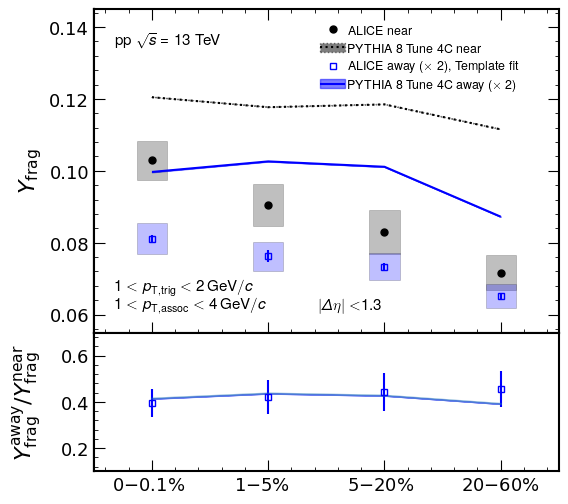
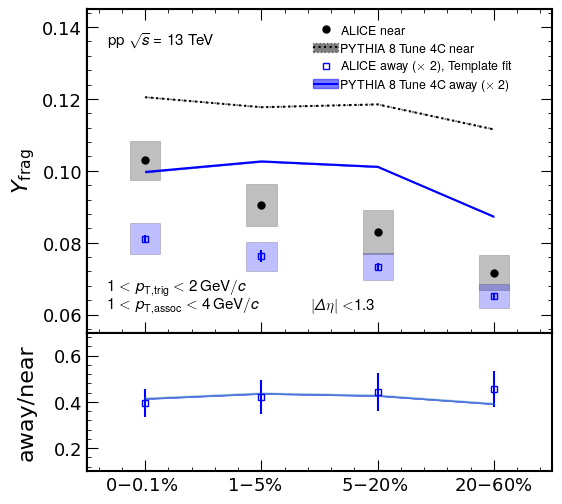
y label change

diff --git a/Fig5_JetY_mult.py b/Fig5_JetY_mult.py
@@ -47,7 +47,7 @@ centrality =["ALICE near","PYTHIA 8 Tune 4C near",
 
 #xtitle = ["$p_\\mathrm{T,trig(assoc)} (\\mathrm{GeV}/c)$"];
 xtitle = ["",""];
-ytitle = ["$Y_\\mathrm{frag}$"," $2Y_\\mathrm{frag}^\\mathrm{away}/Y_\\mathrm{frag}^\\mathrm{near}$"];
+ytitle = ["$Y_\\mathrm{frag}$"," away/near$"];
 
 
 # Following two must be added
@@ -62,9 +62,10 @@ plot = JPyPlotRatio.JPyPlotRatio(panels=(nrow,ncol),
 	colBounds=xlimits,  # for ncol
 	panelLabel=plables,  # nrowxncol
 	ratioBounds=rlimits,# for nrow
+#	ratioSystPlot=True,
 	panelLabelLoc=(0.85,0.85),panelLabelSize=16,panelLabelAlign="left",
 	legendPanel={0:0},
-	legendLoc={0:(0.7,0.85)},legendSize=9,xlabel={0:xtitle[0]},ylabel={0:ytitle[0]},ylabelRatio="$Y_\\mathrm{frag}^\\mathrm{away}/Y_\\mathrm{frag}^\\mathrm{near}$",fontsize=1);
+	legendLoc={0:(0.7,0.85)},legendSize=9,xlabel={0:xtitle[0]},ylabel={0:ytitle[0]},ylabelRatio="away/near",fontsize=1);
 
 
 plot.EnableLatex(True);
